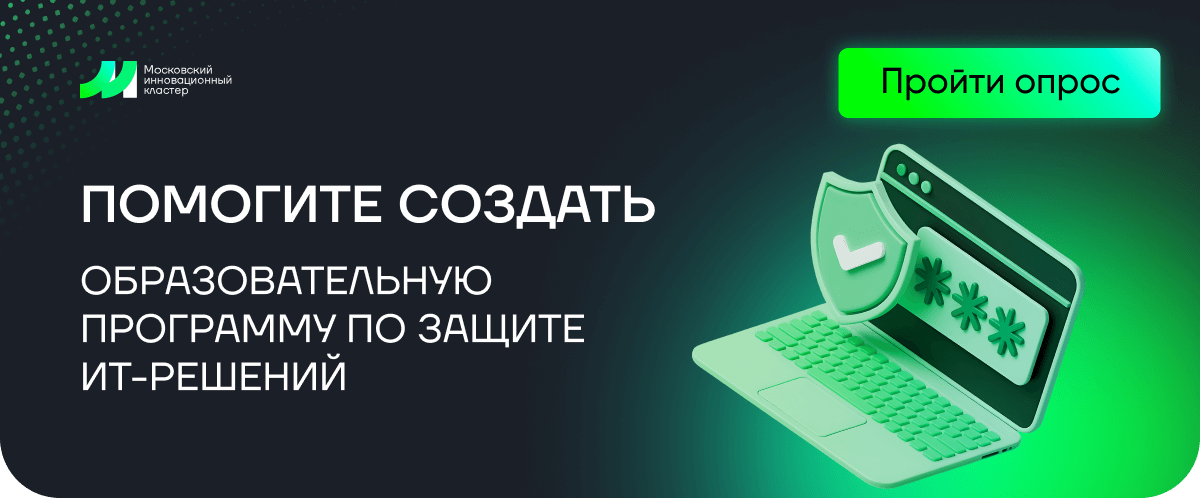
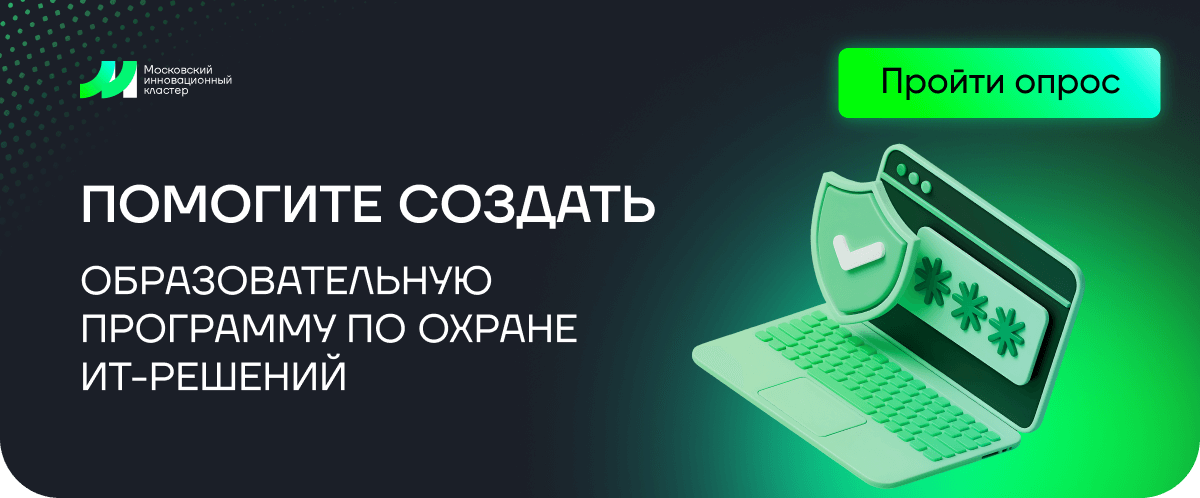
change mik-260

Changed region(s): [[0.3392, 0.6325, 0.4933, 0.6928]]

diff --git a/mik-260/Образовательная программа.html b/mik-260/Образовательная программа.html
@@ -103,7 +103,7 @@
                                         <tr>
                                             <td style="width:600px;">
                                                 <a href="https://i.moscow/measure-supports/site/form/bc0c1a203ac740949002275230f7b2c4" target="_blank">
-                                                    <img alt="Помогите создать образовательную программу по защите ИТ-решений. Нажмите здесь, чтобы пройти опрос." height="auto" src="https://cp.unisender.com/ru/user_file?resource=images&user_id=5608985&name=mik-260-hero.png" style="border:0;display:block;outline:none;text-decoration:none;height:auto;width:100%;font-size:13px;" width="600" />
+                                                    <img alt="Помогите создать образовательную программу по охране ИТ-решений. Нажмите здесь, чтобы пройти опрос." height="auto" src="https://cp.unisender.com/ru/user_file?resource=images&user_id=5608985&name=mik-260-hero.png" style="border:0;display:block;outline:none;text-decoration:none;height:auto;width:100%;font-size:13px;" width="600" />
                                                 </a>
                                             </td>
                                         </tr>
